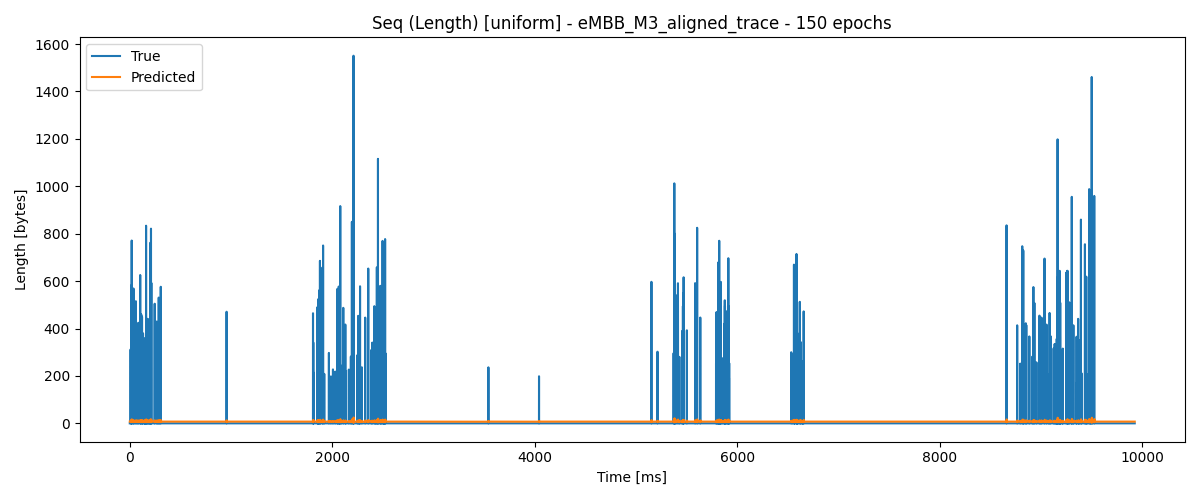
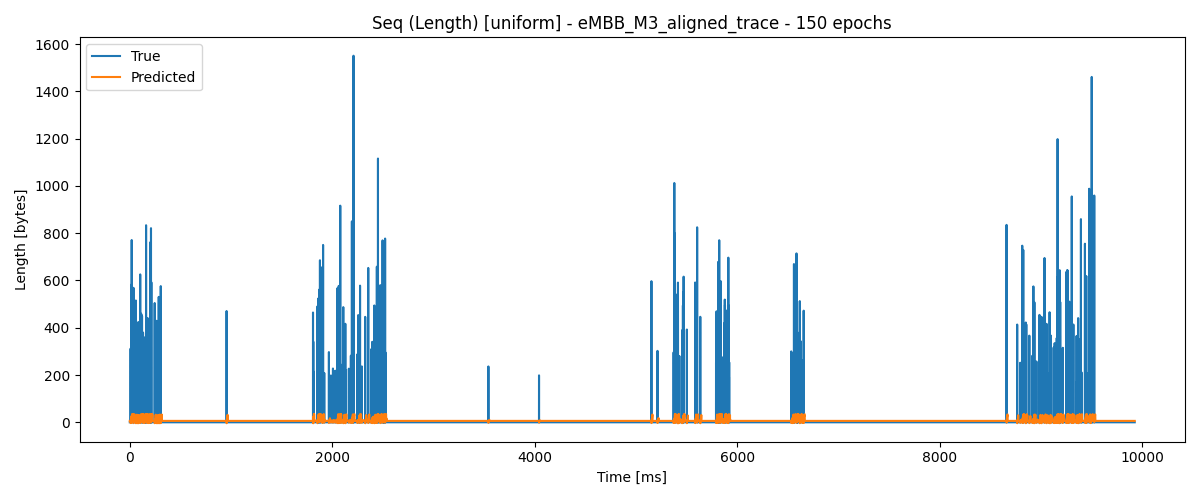
changes with new run

diff --git a/backend/notebooks/prev_plot_and_predict_runner.py b/backend/notebooks/prev_plot_and_predict_runner.py
@@ -210,6 +210,11 @@ def predict_in_batches(
     return pred_cat.numpy().squeeze(-1), target_cat.numpy().squeeze(-1)
 
 
+def format_suffix(**kwargs: int) -> str:
+    parts = [f"{key}{value}" for key, value in kwargs.items()]
+    return "_".join(parts)
+
+
 def train_feature_set(
     df_event: pd.DataFrame,
     trace_path: Path,
@@ -265,8 +270,8 @@ def train_feature_set(
         device=device,
         patience=patience,
     )
-
-    loss_plot = output_dir / f"{trace_path.stem}_loss_{feature_tag}.png"
+    common_suffix = format_suffix(epochs=epochs, window=window, batch=batch_size)
+    loss_plot = output_dir / f"{trace_path.stem}_{feature_tag}_loss_{common_suffix}.png"
     plot_loss_curves(train_hist, val_hist, f"Loss - {trace_path.stem} [{feature_tag}]", loss_plot)
 
     preds, y_true = predict_in_batches(model, eval_loader, device=device)
@@ -276,7 +281,7 @@ def train_feature_set(
 
     time_axis = df_prepared["Time"].values.astype(float)
     title = f"Seq ({' + '.join(feature_cols)}) [{mode}] - {trace_path.stem} - {epochs} epochs"
-    output_path = output_dir / f"{trace_path.stem}_epochs{epochs}_{feature_tag}.png"
+    output_path = output_dir / f"{trace_path.stem}_{feature_tag}_pred_{common_suffix}.png"
     plot_predictions(time_axis, y_true, preds, title, output_path, is_irregular="delta_t" in feature_cols)
 
 

diff --git a/run_all_traces.py b/run_all_traces.py
@@ -1,13 +1,16 @@
 import subprocess
 from pathlib import Path
 
-SCRIPT = "backend/notebooks/plot_and_predict_runner.py"
+SCRIPT = "backend/notebooks/prev_plot_and_predict_runner.py"
 TRACE_DIR = Path("backend/assets/traces")
 ARGS = [
-    "--epochs", "15",
-    "--window", "20",
+    "--epochs", "1500",
+    "--window", "128",
     "--output-dir", "backend/assets/plots",
     "--feature-sets", "length", "delta_t+length", "uniform-length",
+    "--early-stop", "10",
+    "--val-ratio", "0.1",
+    "--batch-size", "64",
 ]
 
 def main():
